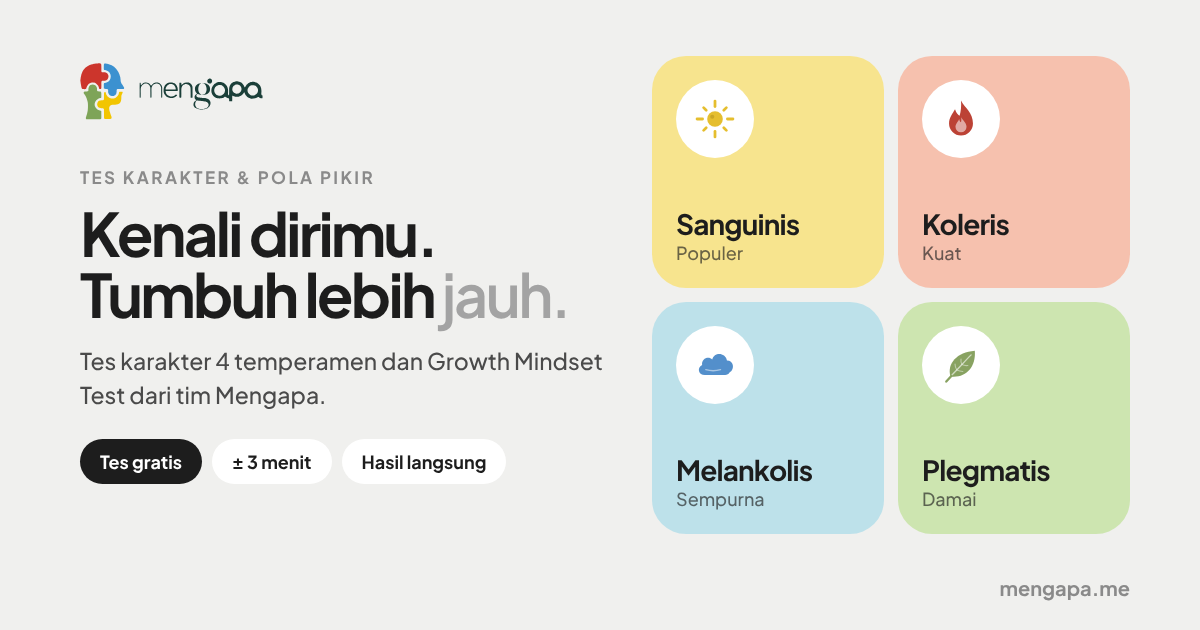
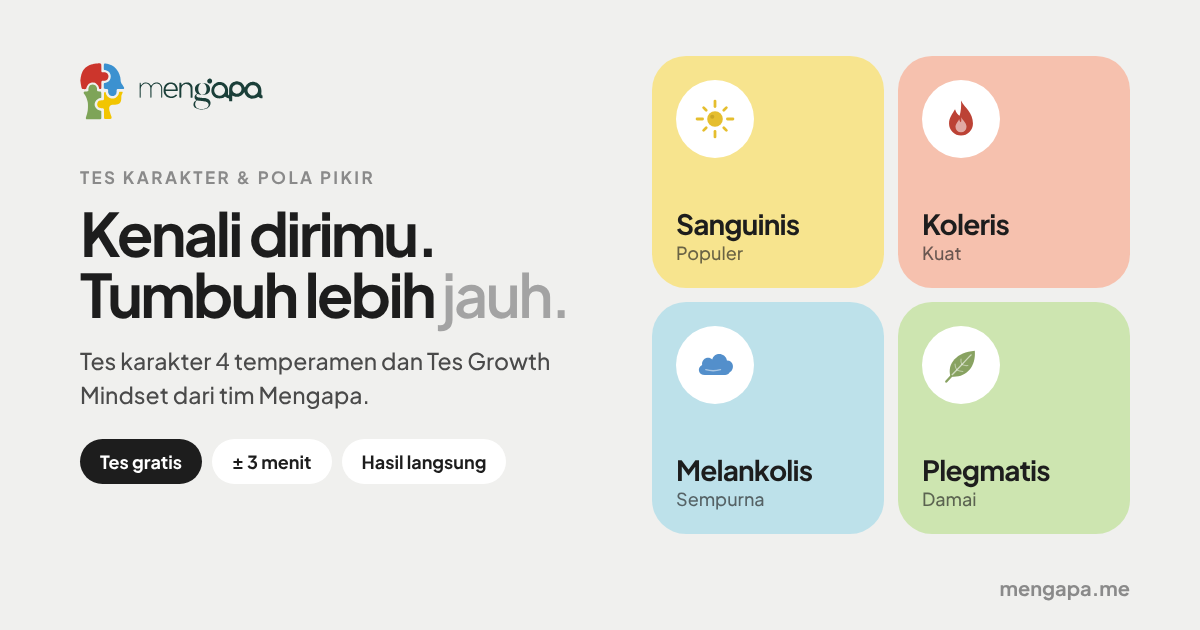
Tes Growth Mindset (ID), info kartu tes pakai ikon soal + jam, token jadi tombol kecil di atas
Claude-Session: https://claude.ai/code/session_01Eb9LF9UwswxkZAqvSx1YYX

Changed region(s): [[0.0617, 0.6032, 0.3083, 0.6635], [0.3392, 0.5429, 0.4933, 0.6032]]

diff --git a/index.html b/index.html
@@ -4,18 +4,18 @@
   <meta charset="utf-8" />
   <meta name="viewport" content="width=device-width, initial-scale=1, viewport-fit=cover" />
   <title>Mengapa</title>
-  <meta name="description" content="Tes karakter 4 temperamen dan Growth Mindset Test dari Mengapa. Kenali dirimu, pahami orang terdekat." />
+  <meta name="description" content="Tes karakter 4 temperamen dan Tes Growth Mindset dari Mengapa. Kenali dirimu, pahami orang terdekat." />
   <meta name="theme-color" content="#FFFFFF" />
   <meta property="og:type" content="website" />
   <meta property="og:title" content="Mengapa" />
-  <meta property="og:description" content="Kenali dirimu. Tumbuh lebih jauh. Tes karakter 4 temperamen dan Growth Mindset Test dari Mengapa." />
+  <meta property="og:description" content="Kenali dirimu. Tumbuh lebih jauh. Tes karakter 4 temperamen dan Tes Growth Mindset dari Mengapa." />
   <meta property="og:url" content="https://mengapa.me/" />
   <meta property="og:site_name" content="Mengapa" />
-  <meta property="og:image" content="https://mengapa.me/og.png?v=4" />
+  <meta property="og:image" content="https://mengapa.me/og.png?v=5" />
   <meta property="og:image:width" content="1200" />
   <meta property="og:image:height" content="630" />
-  <meta property="og:image:alt" content="Mengapa: tes karakter 4 temperamen dan Growth Mindset Test" />
-  <meta name="twitter:image" content="https://mengapa.me/og.png?v=4" />
+  <meta property="og:image:alt" content="Mengapa: tes karakter 4 temperamen dan Tes Growth Mindset" />
+  <meta name="twitter:image" content="https://mengapa.me/og.png?v=5" />
   <meta name="twitter:card" content="summary_large_image" />
   <link rel="icon" href="/favicon.png?v=5" type="image/png" sizes="64x64" />
   <link rel="preconnect" href="https://fonts.googleapis.com" />
@@ -986,6 +986,19 @@ h1 em, h2 em, h3 em { font-style: normal; font-weight: 600; color: #A3A3A3; }
 .sv-dark .btn.inv .arrow { background: #FFFFFF; color: var(--ink); }
 /* spektrum GM pakai lavender */
 .gs-track { background: linear-gradient(90deg, #F2EEFC 0%, #D9CEF5 50%, #B7A5EC 75%, #8B72DA 100%); }
+/* baris info kartu tes: ikon soal + ikon jam */
+.pmeta { display: flex; flex-wrap: wrap; gap: 6px; margin-top: 10px; }
+.pmeta span { display: inline-flex; align-items: center; gap: 6px; padding: 6px 11px 6px 9px; border-radius: 999px; background: #F4F4F2; font-size: 12.5px; font-weight: 600; color: #4A4A4A; white-space: nowrap; }
+.pmeta svg { color: #8A8A8A; flex: none; }
+.plan.pro .pmeta span { background: rgba(255,255,255,.7); color: #26301F; }
+.plan.pro .pmeta svg { color: #3E4A36; }
+.wide-plan .pmeta span { background: #F4F2FC; }
+.plan .tagp + h3 { margin-top: 18px; }
+.ptop { display: flex; align-items: center; justify-content: space-between; gap: 8px; flex-wrap: wrap; }
+.ptop .tokbtn { margin-top: 0; background: transparent !important; box-shadow: inset 0 0 0 1.5px rgba(29,29,29,.35); color: var(--ink) !important; }
+@media (hover: hover) { .ptop .tokbtn:hover { background: #FFFFFF !important; box-shadow: inset 0 0 0 1.5px var(--ink); } }
+.ptop { flex-wrap: nowrap; } .ptop .tokbtn { flex: none; }
+.plan .tagp, .ptop .tokbtn { height: 30px; box-sizing: border-box; display: inline-flex; align-items: center; padding-top: 0; padding-bottom: 0; }
 
 </style>
 </head>
@@ -2202,7 +2215,7 @@ async function shareCard(result) {
 
 async function gmCard({ nickname, dateLabel, total, cat, pillars }) {
   try { await document.fonts.ready; } catch (e) { /* abaikan */ }
-  const { W, cv, ctx } = await cardBase('Growth Mindset Test');
+  const { W, cv, ctx } = await cardBase(L('Tes Growth Mindset', 'Growth Mindset Test'));
   ctx.fillStyle = '#E4DCF8'; roundRect(ctx, 60, 262, W - 120, 860, 64); ctx.fill();
   const cx = W / 2, cy = 520, rr = 180;
   ctx.lineWidth = 34; ctx.lineCap = 'round';
@@ -2470,7 +2483,7 @@ function home() {
         <div class="plan">
           <span class="tagp">Gratis</span>
           <h3>Tes Karakter Mini</h3>
-          <p class="plan-meta">10 pertanyaan · ± 3 menit</p>
+          <div class="pmeta"><span><svg width="15" height="15" viewBox="0 0 24 24" fill="none" stroke="currentColor" stroke-width="2" stroke-linecap="round" stroke-linejoin="round" aria-hidden="true"><path d="M4 6.5A2.5 2.5 0 0 1 6.5 4h11A2.5 2.5 0 0 1 20 6.5v7a2.5 2.5 0 0 1-2.5 2.5H10l-4 4v-4A2 2 0 0 1 4 14z"/></svg>${L('10 pertanyaan', '10 questions')}</span><span><svg width="15" height="15" viewBox="0 0 24 24" fill="none" stroke="currentColor" stroke-width="2" stroke-linecap="round" stroke-linejoin="round" aria-hidden="true"><circle cx="12" cy="12" r="8.5"/><path d="M12 7.5V12l3 2"/></svg>± 3 ${L('menit', 'min')}</span></div>
           <ul class="ticks">
             <li>Temperamen dominanmu</li>
             <li>Kekuatan utama dan hal yang perlu diwaspadai</li>
@@ -2480,10 +2493,9 @@ function home() {
           ${state.miniResult ? `<button class="linkbtn" data-act="lastmini">Lihat hasil mini terakhir</button>` : ''}
         </div>
         <div class="plan pro">
-          <span class="tagp">Dengan token${CONFIG.fullPrice ? ' · ' + esc(CONFIG.fullPrice) : ''}</span>
+          <div class="ptop"><span class="tagp">Dengan token${CONFIG.fullPrice ? ' · ' + esc(CONFIG.fullPrice) : ''}</span><a class="tokbtn" href="${buyLink()}" target="_blank" rel="noopener">${L('Belum punya?', 'Need one?')}<svg width="13" height="13" viewBox="0 0 24 24" fill="none" stroke="currentColor" stroke-width="2.4" stroke-linecap="round" stroke-linejoin="round" aria-hidden="true"><path d="M7 17L17 7M8 7h9v9"/></svg></a></div>
           <h3>Tes Karakter Lengkap</h3>
-          <p class="plan-meta">${L('40 pertanyaan · lengkap dengan PDF', '40 questions · with a PDF report')}</p>
-          <a class="tokbtn" href="${buyLink()}" target="_blank" rel="noopener">${L('Belum punya token?', 'No token yet?')}<svg width="13" height="13" viewBox="0 0 24 24" fill="none" stroke="currentColor" stroke-width="2.4" stroke-linecap="round" stroke-linejoin="round" aria-hidden="true"><path d="M7 17L17 7M8 7h9v9"/></svg></a>
+          <div class="pmeta"><span><svg width="15" height="15" viewBox="0 0 24 24" fill="none" stroke="currentColor" stroke-width="2" stroke-linecap="round" stroke-linejoin="round" aria-hidden="true"><path d="M4 6.5A2.5 2.5 0 0 1 6.5 4h11A2.5 2.5 0 0 1 20 6.5v7a2.5 2.5 0 0 1-2.5 2.5H10l-4 4v-4A2 2 0 0 1 4 14z"/></svg>${L('40 pertanyaan', '40 questions')}</span><span><svg width="15" height="15" viewBox="0 0 24 24" fill="none" stroke="currentColor" stroke-width="2" stroke-linecap="round" stroke-linejoin="round" aria-hidden="true"><circle cx="12" cy="12" r="8.5"/><path d="M12 7.5V12l3 2"/></svg>± 10 ${L('menit', 'min')}</span></div>
           <ul class="ticks">
             <li>${L('1 dari 12 kombinasi karakter', '1 of 12 character blends')}</li>
             <li>${L('Lembar skor dan ruang tumbuh terbesarmu', 'Score sheet and your biggest room to grow')}</li>
@@ -2500,8 +2512,8 @@ function home() {
         <p class="group-sub">Lihat seberapa terbuka pola pikirmu terhadap gagal, kritik, dan tantangan.</p>
         <div class="plan wide-plan">
           <span class="tagp">Gratis</span>
-          <h3>Growth Mindset Test</h3>
-          <p class="plan-meta">15 pernyataan · ± 4 menit</p>
+          <h3>${L('Tes Growth Mindset', 'Growth Mindset Test')}</h3>
+          <div class="pmeta"><span><svg width="15" height="15" viewBox="0 0 24 24" fill="none" stroke="currentColor" stroke-width="2" stroke-linecap="round" stroke-linejoin="round" aria-hidden="true"><path d="M4 6.5A2.5 2.5 0 0 1 6.5 4h11A2.5 2.5 0 0 1 20 6.5v7a2.5 2.5 0 0 1-2.5 2.5H10l-4 4v-4A2 2 0 0 1 4 14z"/></svg>${L('15 pernyataan', '15 statements')}</span><span><svg width="15" height="15" viewBox="0 0 24 24" fill="none" stroke="currentColor" stroke-width="2" stroke-linecap="round" stroke-linejoin="round" aria-hidden="true"><circle cx="12" cy="12" r="8.5"/><path d="M12 7.5V12l3 2"/></svg>± 4 ${L('menit', 'min')}</span></div>
           <ul class="ticks">
             <li>Posisi pola pikirmu: fixed, transisi, atau growth</li>
             <li>Skor di 5 pilar: bakat, kegagalan, tantangan, kritik, kesuksesan orang lain</li>
@@ -2904,7 +2916,7 @@ function gmresult() {
   const names = ks => ks.map(k => GM_PILLARS[k].name).join(', ').replace(/, ([^,]*)$/, L(' dan $1', ' and $1'));
   const weakest = a.weakest.length ? a.weakest : [];
   const focus = weakest.length ? weakest : [a.sorted[4]];
-  const waBase = L(`Halo Mengapa, saya ${r.profile.name}. Saya baru selesai Growth Mindset Test (${fmtDate(r.finishedAt)}).\nHasil: ${cat.name}, skor ${a.total}/100.${weakest.length ? `\nPilar yang paling menahan: ${names(weakest)}.` : ''}\nKode hasil: ${r.id}\n\n`, `Hi Mengapa, I'm ${r.profile.name}. I just finished the Growth Mindset Test (${fmtDate(r.finishedAt)}).\nResult: ${cat.name}, score ${a.total}/100.${weakest.length ? `\nPillar holding me back most: ${names(weakest)}.` : ''}\nResult code: ${r.id}\n\n`);
+  const waBase = L(`Halo Mengapa, saya ${r.profile.name}. Saya baru selesai Tes Growth Mindset (${fmtDate(r.finishedAt)}).\nHasil: ${cat.name}, skor ${a.total}/100.${weakest.length ? `\nPilar yang paling menahan: ${names(weakest)}.` : ''}\nKode hasil: ${r.id}\n\n`, `Hi Mengapa, I'm ${r.profile.name}. I just finished the Growth Mindset Test (${fmtDate(r.finishedAt)}).\nResult: ${cat.name}, score ${a.total}/100.${weakest.length ? `\nPillar holding me back most: ${names(weakest)}.` : ''}\nResult code: ${r.id}\n\n`);
   const waFull = waLink(waBase + L('Saya tertarik dengan Tes Karakter Lengkap atau sesi coaching. Bisa dibantu?', 'I am interested in the Full Character Test or a coaching session. Could you help?'));
   const pill = k => { const v = a.pillars[k], lv = a.level(v), P = GM_PILLARS[k];
     const tag = a.strongest.includes(k) ? '<em class="tg up">Paling kuat</em>' : a.weakest.includes(k) ? '<em class="tg down">Paling menahan</em>' : '';

diff --git a/admin.html b/admin.html
@@ -982,6 +982,19 @@ h1 em, h2 em, h3 em { font-style: normal; font-weight: 600; color: #A3A3A3; }
 .sv-dark .btn.inv .arrow { background: #FFFFFF; color: var(--ink); }
 /* spektrum GM pakai lavender */
 .gs-track { background: linear-gradient(90deg, #F2EEFC 0%, #D9CEF5 50%, #B7A5EC 75%, #8B72DA 100%); }
+/* baris info kartu tes: ikon soal + ikon jam */
+.pmeta { display: flex; flex-wrap: wrap; gap: 6px; margin-top: 10px; }
+.pmeta span { display: inline-flex; align-items: center; gap: 6px; padding: 6px 11px 6px 9px; border-radius: 999px; background: #F4F4F2; font-size: 12.5px; font-weight: 600; color: #4A4A4A; white-space: nowrap; }
+.pmeta svg { color: #8A8A8A; flex: none; }
+.plan.pro .pmeta span { background: rgba(255,255,255,.7); color: #26301F; }
+.plan.pro .pmeta svg { color: #3E4A36; }
+.wide-plan .pmeta span { background: #F4F2FC; }
+.plan .tagp + h3 { margin-top: 18px; }
+.ptop { display: flex; align-items: center; justify-content: space-between; gap: 8px; flex-wrap: wrap; }
+.ptop .tokbtn { margin-top: 0; background: transparent !important; box-shadow: inset 0 0 0 1.5px rgba(29,29,29,.35); color: var(--ink) !important; }
+@media (hover: hover) { .ptop .tokbtn:hover { background: #FFFFFF !important; box-shadow: inset 0 0 0 1.5px var(--ink); } }
+.ptop { flex-wrap: nowrap; } .ptop .tokbtn { flex: none; }
+.plan .tagp, .ptop .tokbtn { height: 30px; box-sizing: border-box; display: inline-flex; align-items: center; padding-top: 0; padding-bottom: 0; }
 
 :root { --tint: #F4F4F2; }
 /* ============ Ruang Tim ============ */
@@ -2490,7 +2503,7 @@ async function shareCard(result) {
 
 async function gmCard({ nickname, dateLabel, total, cat, pillars }) {
   try { await document.fonts.ready; } catch (e) { /* abaikan */ }
-  const { W, cv, ctx } = await cardBase('Growth Mindset Test');
+  const { W, cv, ctx } = await cardBase(L('Tes Growth Mindset', 'Growth Mindset Test'));
   ctx.fillStyle = '#E4DCF8'; roundRect(ctx, 60, 262, W - 120, 860, 64); ctx.fill();
   const cx = W / 2, cy = 520, rr = 180;
   ctx.lineWidth = 34; ctx.lineCap = 'round';
@@ -2542,7 +2555,7 @@ const session = {
 const S = { clientName: ls.get(SKEY + ':nama') || '', session: session.get(), rows: null, items: [], at: '', tab: 'all', q: '', f: new Set(), sel: '', loading: false, err: '',
   limit: 80, src: 'new', sort: ls.get('mengapa:admin:sort') || 'date', dir: Number(ls.get('mengapa:admin:dir')) || -1, temps: new Set(), cats: new Set(), range: 'all', from: '', to: '', panel: false };
 const kindName = k => ({ lengkap: L('Lengkap', 'Full'), mini: 'Mini', mindset: 'Mindset' })[k];
-const testName = k => ({ lengkap: L('Tes Karakter Lengkap', 'Full Character Test'), mini: L('Tes Karakter Mini', 'Mini Character Test'), mindset: 'Growth Mindset Test' })[k];
+const testName = k => ({ lengkap: L('Tes Karakter Lengkap', 'Full Character Test'), mini: L('Tes Karakter Mini', 'Mini Character Test'), mindset: L('Tes Growth Mindset', 'Growth Mindset Test') })[k];
 const levelName = v => v === 'Tinggi' ? L('Tinggi', 'High') : v === 'Sedang' ? L('Sedang', 'Medium') : v;
 const MON = () => L('Jan Feb Mar Apr Mei Jun Jul Agu Sep Okt Nov Des', 'Jan Feb Mar Apr May Jun Jul Aug Sep Oct Nov Dec').split(' ');
 const pad = n => String(n).padStart(2, '0');
@@ -2849,7 +2862,7 @@ function detailMindset(x) {
   return `
     <section class="hero" style="--soft:#E4ECD8">
       <div class="hero-art"><span class="gauge" style="--v:${a.total}"><b>${a.total}</b><small>${L('dari 100', 'out of 100')}</small></span></div>
-      <div><small class="eyebrow">Growth Mindset Test</small><h2>${esc(cat.name)}</h2><p class="muted">${esc(cat.tagline)}</p></div>
+      <div><small class="eyebrow">${L('Tes Growth Mindset', 'Growth Mindset Test')}</small><h2>${esc(cat.name)}</h2><p class="muted">${esc(cat.tagline)}</p></div>
     </section>
     <section class="box"><h3>${L('Skor per pilar', 'Score per pillar')}</h3><div class="bars wide">${bars(GM_PILLAR_ORDER.map(k => ({ label: GM_PILLARS[k].name, v: a.pillars[k], color: GM_PILLARS[k].color })), 100)}</div>
       ${a.weakest.length ? `<p class="note">${L('Paling menahan', 'Holding back most')}: <b>${a.weakest.map(k => GM_PILLARS[k].name).join(', ')}</b></p>` : ''}

diff --git a/hkgold.html b/hkgold.html
@@ -982,6 +982,19 @@ h1 em, h2 em, h3 em { font-style: normal; font-weight: 600; color: #A3A3A3; }
 .sv-dark .btn.inv .arrow { background: #FFFFFF; color: var(--ink); }
 /* spektrum GM pakai lavender */
 .gs-track { background: linear-gradient(90deg, #F2EEFC 0%, #D9CEF5 50%, #B7A5EC 75%, #8B72DA 100%); }
+/* baris info kartu tes: ikon soal + ikon jam */
+.pmeta { display: flex; flex-wrap: wrap; gap: 6px; margin-top: 10px; }
+.pmeta span { display: inline-flex; align-items: center; gap: 6px; padding: 6px 11px 6px 9px; border-radius: 999px; background: #F4F4F2; font-size: 12.5px; font-weight: 600; color: #4A4A4A; white-space: nowrap; }
+.pmeta svg { color: #8A8A8A; flex: none; }
+.plan.pro .pmeta span { background: rgba(255,255,255,.7); color: #26301F; }
+.plan.pro .pmeta svg { color: #3E4A36; }
+.wide-plan .pmeta span { background: #F4F2FC; }
+.plan .tagp + h3 { margin-top: 18px; }
+.ptop { display: flex; align-items: center; justify-content: space-between; gap: 8px; flex-wrap: wrap; }
+.ptop .tokbtn { margin-top: 0; background: transparent !important; box-shadow: inset 0 0 0 1.5px rgba(29,29,29,.35); color: var(--ink) !important; }
+@media (hover: hover) { .ptop .tokbtn:hover { background: #FFFFFF !important; box-shadow: inset 0 0 0 1.5px var(--ink); } }
+.ptop { flex-wrap: nowrap; } .ptop .tokbtn { flex: none; }
+.plan .tagp, .ptop .tokbtn { height: 30px; box-sizing: border-box; display: inline-flex; align-items: center; padding-top: 0; padding-bottom: 0; }
 
 :root { --tint: #F4F4F2; }
 /* ============ Ruang Tim ============ */
@@ -2490,7 +2503,7 @@ async function shareCard(result) {
 
 async function gmCard({ nickname, dateLabel, total, cat, pillars }) {
   try { await document.fonts.ready; } catch (e) { /* abaikan */ }
-  const { W, cv, ctx } = await cardBase('Growth Mindset Test');
+  const { W, cv, ctx } = await cardBase(L('Tes Growth Mindset', 'Growth Mindset Test'));
   ctx.fillStyle = '#E4DCF8'; roundRect(ctx, 60, 262, W - 120, 860, 64); ctx.fill();
   const cx = W / 2, cy = 520, rr = 180;
   ctx.lineWidth = 34; ctx.lineCap = 'round';
@@ -2542,7 +2555,7 @@ const session = {
 const S = { clientName: ls.get(SKEY + ':nama') || '', session: session.get(), rows: null, items: [], at: '', tab: 'all', q: '', f: new Set(), sel: '', loading: false, err: '',
   limit: 80, src: 'new', sort: ls.get('mengapa:admin:sort') || 'date', dir: Number(ls.get('mengapa:admin:dir')) || -1, temps: new Set(), cats: new Set(), range: 'all', from: '', to: '', panel: false };
 const kindName = k => ({ lengkap: L('Lengkap', 'Full'), mini: 'Mini', mindset: 'Mindset' })[k];
-const testName = k => ({ lengkap: L('Tes Karakter Lengkap', 'Full Character Test'), mini: L('Tes Karakter Mini', 'Mini Character Test'), mindset: 'Growth Mindset Test' })[k];
+const testName = k => ({ lengkap: L('Tes Karakter Lengkap', 'Full Character Test'), mini: L('Tes Karakter Mini', 'Mini Character Test'), mindset: L('Tes Growth Mindset', 'Growth Mindset Test') })[k];
 const levelName = v => v === 'Tinggi' ? L('Tinggi', 'High') : v === 'Sedang' ? L('Sedang', 'Medium') : v;
 const MON = () => L('Jan Feb Mar Apr Mei Jun Jul Agu Sep Okt Nov Des', 'Jan Feb Mar Apr May Jun Jul Aug Sep Oct Nov Dec').split(' ');
 const pad = n => String(n).padStart(2, '0');
@@ -2849,7 +2862,7 @@ function detailMindset(x) {
   return `
     <section class="hero" style="--soft:#E4ECD8">
       <div class="hero-art"><span class="gauge" style="--v:${a.total}"><b>${a.total}</b><small>${L('dari 100', 'out of 100')}</small></span></div>
-      <div><small class="eyebrow">Growth Mindset Test</small><h2>${esc(cat.name)}</h2><p class="muted">${esc(cat.tagline)}</p></div>
+      <div><small class="eyebrow">${L('Tes Growth Mindset', 'Growth Mindset Test')}</small><h2>${esc(cat.name)}</h2><p class="muted">${esc(cat.tagline)}</p></div>
     </section>
     <section class="box"><h3>${L('Skor per pilar', 'Score per pillar')}</h3><div class="bars wide">${bars(GM_PILLAR_ORDER.map(k => ({ label: GM_PILLARS[k].name, v: a.pillars[k], color: GM_PILLARS[k].color })), 100)}</div>
       ${a.weakest.length ? `<p class="note">${L('Paling menahan', 'Holding back most')}: <b>${a.weakest.map(k => GM_PILLARS[k].name).join(', ')}</b></p>` : ''}

diff --git a/klien.html b/klien.html
@@ -975,6 +975,19 @@ h1 em, h2 em, h3 em { font-style: normal; font-weight: 600; color: #A3A3A3; }
 .sv-dark .btn.inv .arrow { background: #FFFFFF; color: var(--ink); }
 /* spektrum GM pakai lavender */
 .gs-track { background: linear-gradient(90deg, #F2EEFC 0%, #D9CEF5 50%, #B7A5EC 75%, #8B72DA 100%); }
+/* baris info kartu tes: ikon soal + ikon jam */
+.pmeta { display: flex; flex-wrap: wrap; gap: 6px; margin-top: 10px; }
+.pmeta span { display: inline-flex; align-items: center; gap: 6px; padding: 6px 11px 6px 9px; border-radius: 999px; background: #F4F4F2; font-size: 12.5px; font-weight: 600; color: #4A4A4A; white-space: nowrap; }
+.pmeta svg { color: #8A8A8A; flex: none; }
+.plan.pro .pmeta span { background: rgba(255,255,255,.7); color: #26301F; }
+.plan.pro .pmeta svg { color: #3E4A36; }
+.wide-plan .pmeta span { background: #F4F2FC; }
+.plan .tagp + h3 { margin-top: 18px; }
+.ptop { display: flex; align-items: center; justify-content: space-between; gap: 8px; flex-wrap: wrap; }
+.ptop .tokbtn { margin-top: 0; background: transparent !important; box-shadow: inset 0 0 0 1.5px rgba(29,29,29,.35); color: var(--ink) !important; }
+@media (hover: hover) { .ptop .tokbtn:hover { background: #FFFFFF !important; box-shadow: inset 0 0 0 1.5px var(--ink); } }
+.ptop { flex-wrap: nowrap; } .ptop .tokbtn { flex: none; }
+.plan .tagp, .ptop .tokbtn { height: 30px; box-sizing: border-box; display: inline-flex; align-items: center; padding-top: 0; padding-bottom: 0; }
 
 :root { --tint: #F4F4F2; }
 /* ============ Ruang Tim ============ */
@@ -2483,7 +2496,7 @@ async function shareCard(result) {
 
 async function gmCard({ nickname, dateLabel, total, cat, pillars }) {
   try { await document.fonts.ready; } catch (e) { /* abaikan */ }
-  const { W, cv, ctx } = await cardBase('Growth Mindset Test');
+  const { W, cv, ctx } = await cardBase(L('Tes Growth Mindset', 'Growth Mindset Test'));
   ctx.fillStyle = '#E4DCF8'; roundRect(ctx, 60, 262, W - 120, 860, 64); ctx.fill();
   const cx = W / 2, cy = 520, rr = 180;
   ctx.lineWidth = 34; ctx.lineCap = 'round';
@@ -2535,7 +2548,7 @@ const session = {
 const S = { clientName: ls.get(SKEY + ':nama') || '', session: session.get(), rows: null, items: [], at: '', tab: 'all', q: '', f: new Set(), sel: '', loading: false, err: '',
   limit: 80, src: 'new', sort: ls.get('mengapa:admin:sort') || 'date', dir: Number(ls.get('mengapa:admin:dir')) || -1, temps: new Set(), cats: new Set(), range: 'all', from: '', to: '', panel: false };
 const kindName = k => ({ lengkap: L('Lengkap', 'Full'), mini: 'Mini', mindset: 'Mindset' })[k];
-const testName = k => ({ lengkap: L('Tes Karakter Lengkap', 'Full Character Test'), mini: L('Tes Karakter Mini', 'Mini Character Test'), mindset: 'Growth Mindset Test' })[k];
+const testName = k => ({ lengkap: L('Tes Karakter Lengkap', 'Full Character Test'), mini: L('Tes Karakter Mini', 'Mini Character Test'), mindset: L('Tes Growth Mindset', 'Growth Mindset Test') })[k];
 const levelName = v => v === 'Tinggi' ? L('Tinggi', 'High') : v === 'Sedang' ? L('Sedang', 'Medium') : v;
 const MON = () => L('Jan Feb Mar Apr Mei Jun Jul Agu Sep Okt Nov Des', 'Jan Feb Mar Apr May Jun Jul Aug Sep Oct Nov Dec').split(' ');
 const pad = n => String(n).padStart(2, '0');
@@ -2842,7 +2855,7 @@ function detailMindset(x) {
   return `
     <section class="hero" style="--soft:#E4ECD8">
       <div class="hero-art"><span class="gauge" style="--v:${a.total}"><b>${a.total}</b><small>${L('dari 100', 'out of 100')}</small></span></div>
-      <div><small class="eyebrow">Growth Mindset Test</small><h2>${esc(cat.name)}</h2><p class="muted">${esc(cat.tagline)}</p></div>
+      <div><small class="eyebrow">${L('Tes Growth Mindset', 'Growth Mindset Test')}</small><h2>${esc(cat.name)}</h2><p class="muted">${esc(cat.tagline)}</p></div>
     </section>
     <section class="box"><h3>${L('Skor per pilar', 'Score per pillar')}</h3><div class="bars wide">${bars(GM_PILLAR_ORDER.map(k => ({ label: GM_PILLARS[k].name, v: a.pillars[k], color: GM_PILLARS[k].color })), 100)}</div>
       ${a.weakest.length ? `<p class="note">${L('Paling menahan', 'Holding back most')}: <b>${a.weakest.map(k => GM_PILLARS[k].name).join(', ')}</b></p>` : ''}
